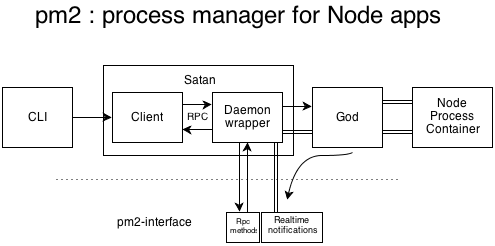
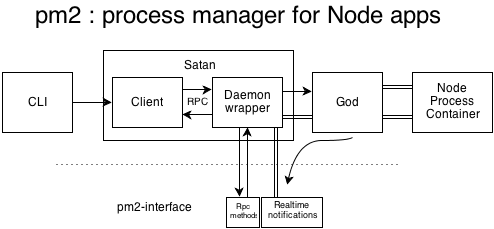
remove chdir call

diff --git a/lib/ProcessContainer.js b/lib/ProcessContainer.js
@@ -60,9 +60,6 @@ function cronize(cron_pattern) {
 }
 
 function exec(script, outFile, errFile) {
-  // Change dir to fix process.cwd
-  process.chdir(p.dirname(script));
-
   var stderr, stdout;
 
   stdout = fs.createWriteStream(outFile, { flags : 'a' });

diff --git a/constants.js b/constants.js
@@ -21,7 +21,7 @@ module.exports = {
 
   CODE_UNCAUGHTEXCEPTION : 100,
   
-  DEBUG              : false,
+  DEBUG              : true,
   WEB_INTERFACE      : 9615,
   MODIFY_REQUIRE     : false,
   PREFIX_MSG         : '\x1B[32m⌬ PM2 \x1B[39m',

diff --git a/examples/cwd.js b/examples/cwd.js
@@ -1,0 +1,4 @@
+
+require('./echo.js');
+
+console.log(process.cwd());
